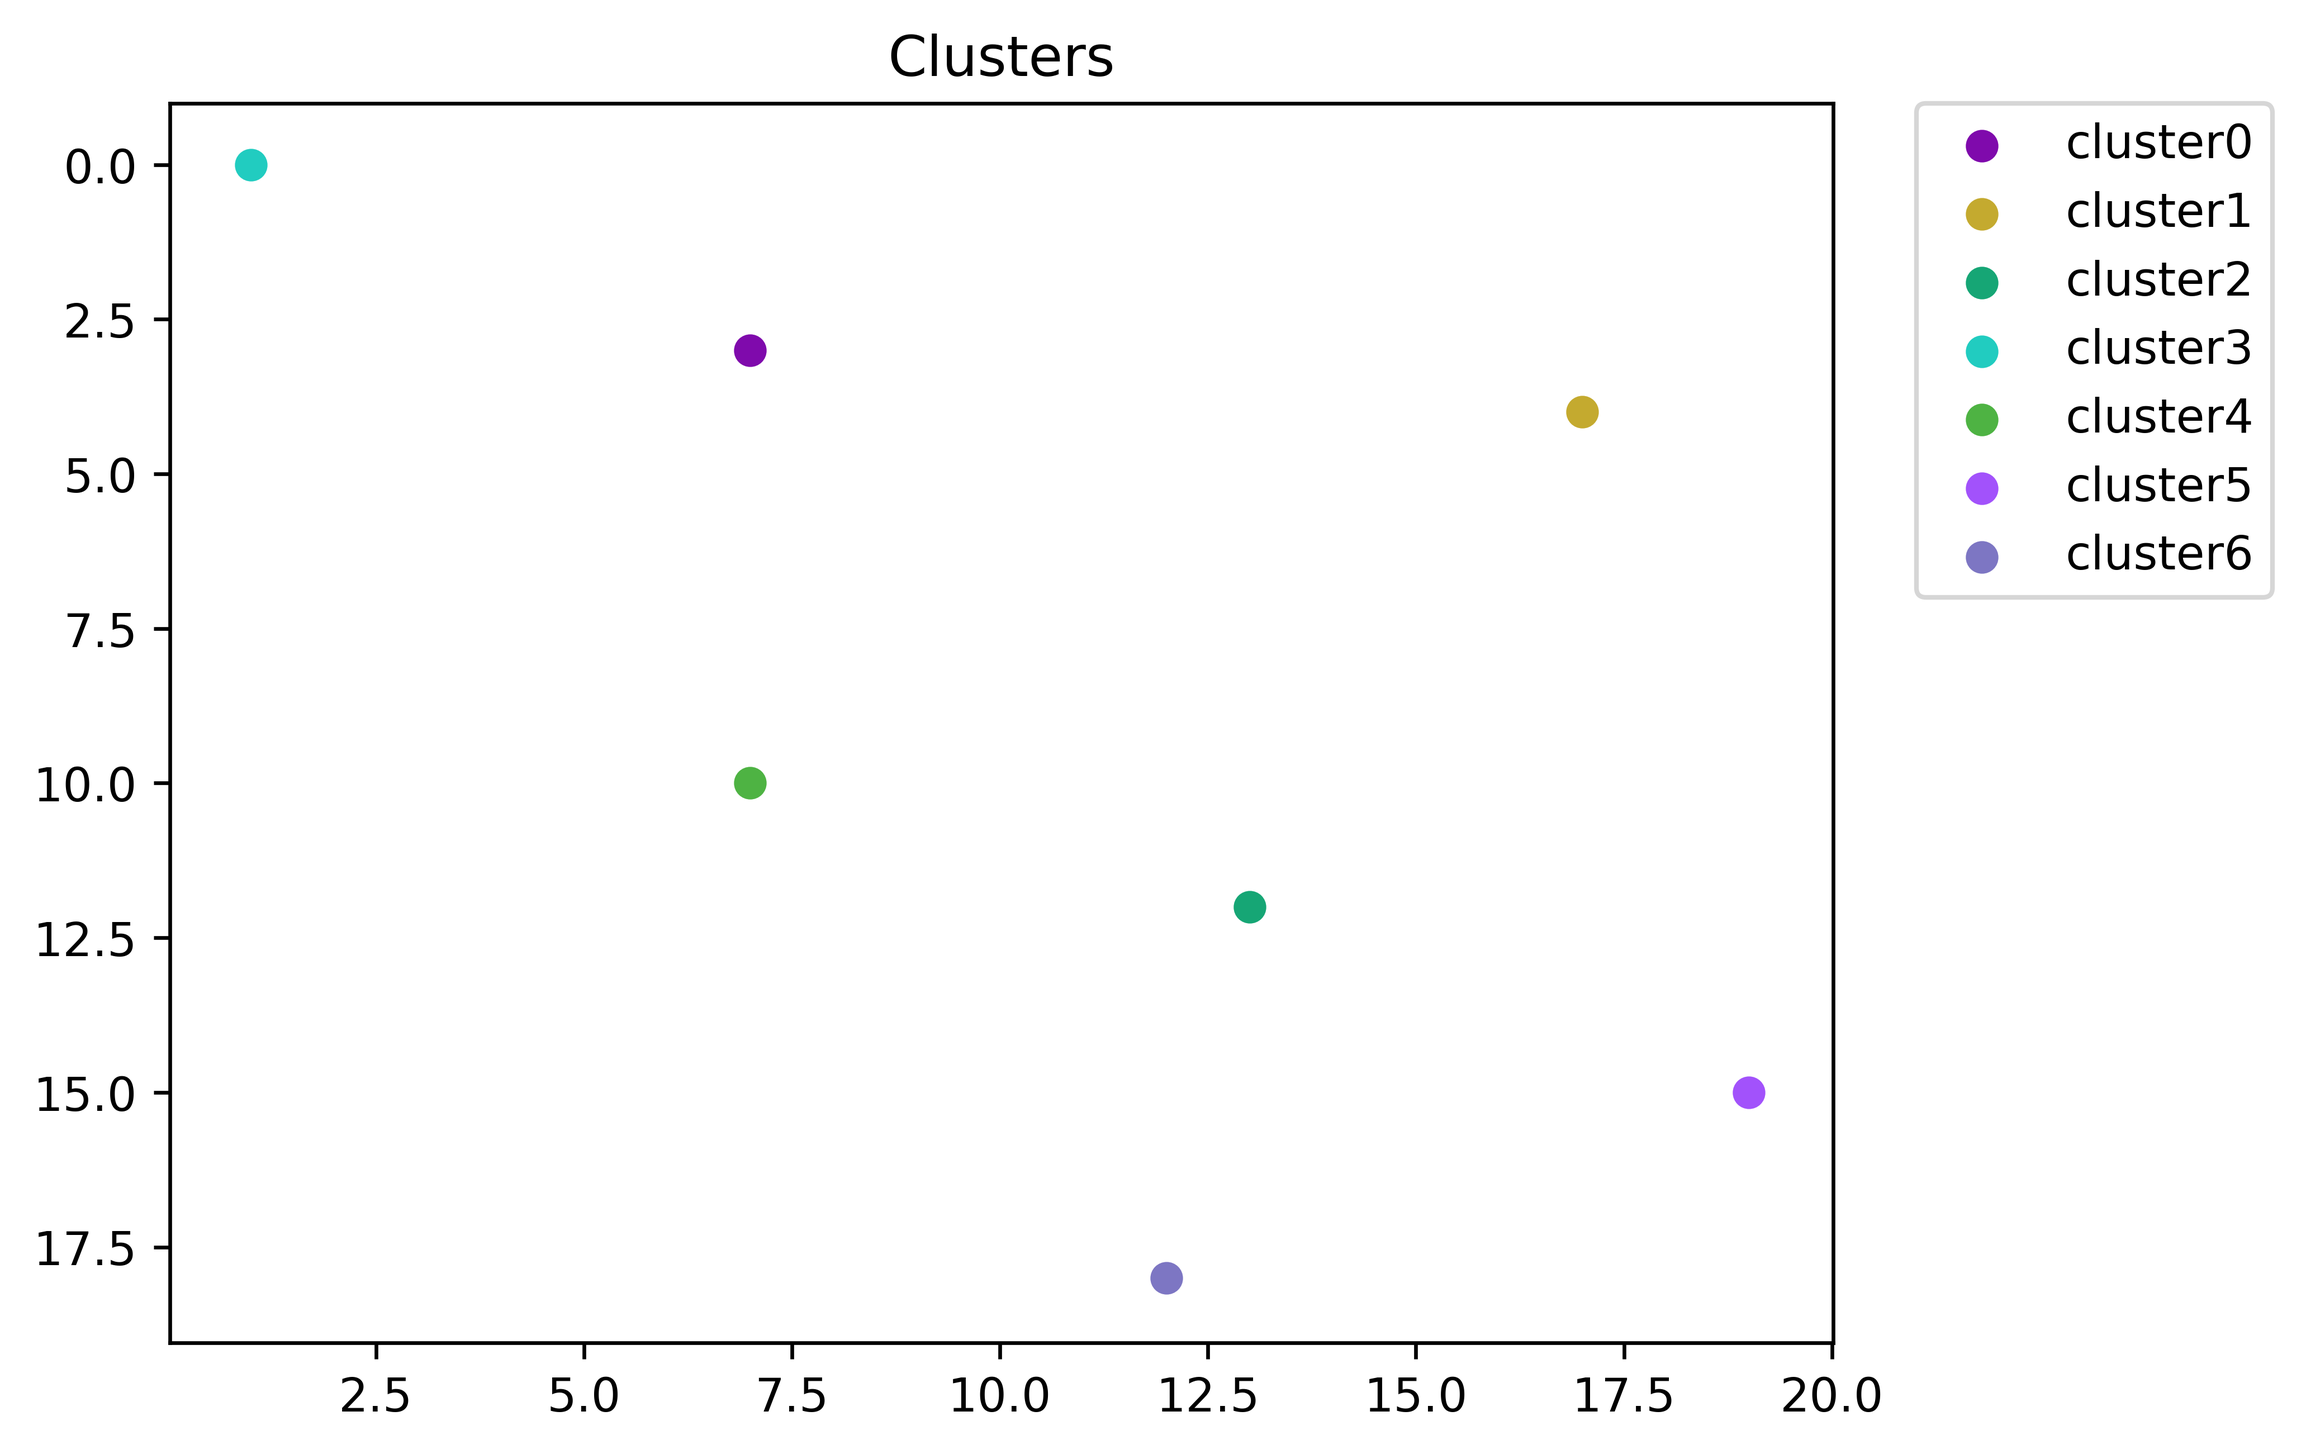
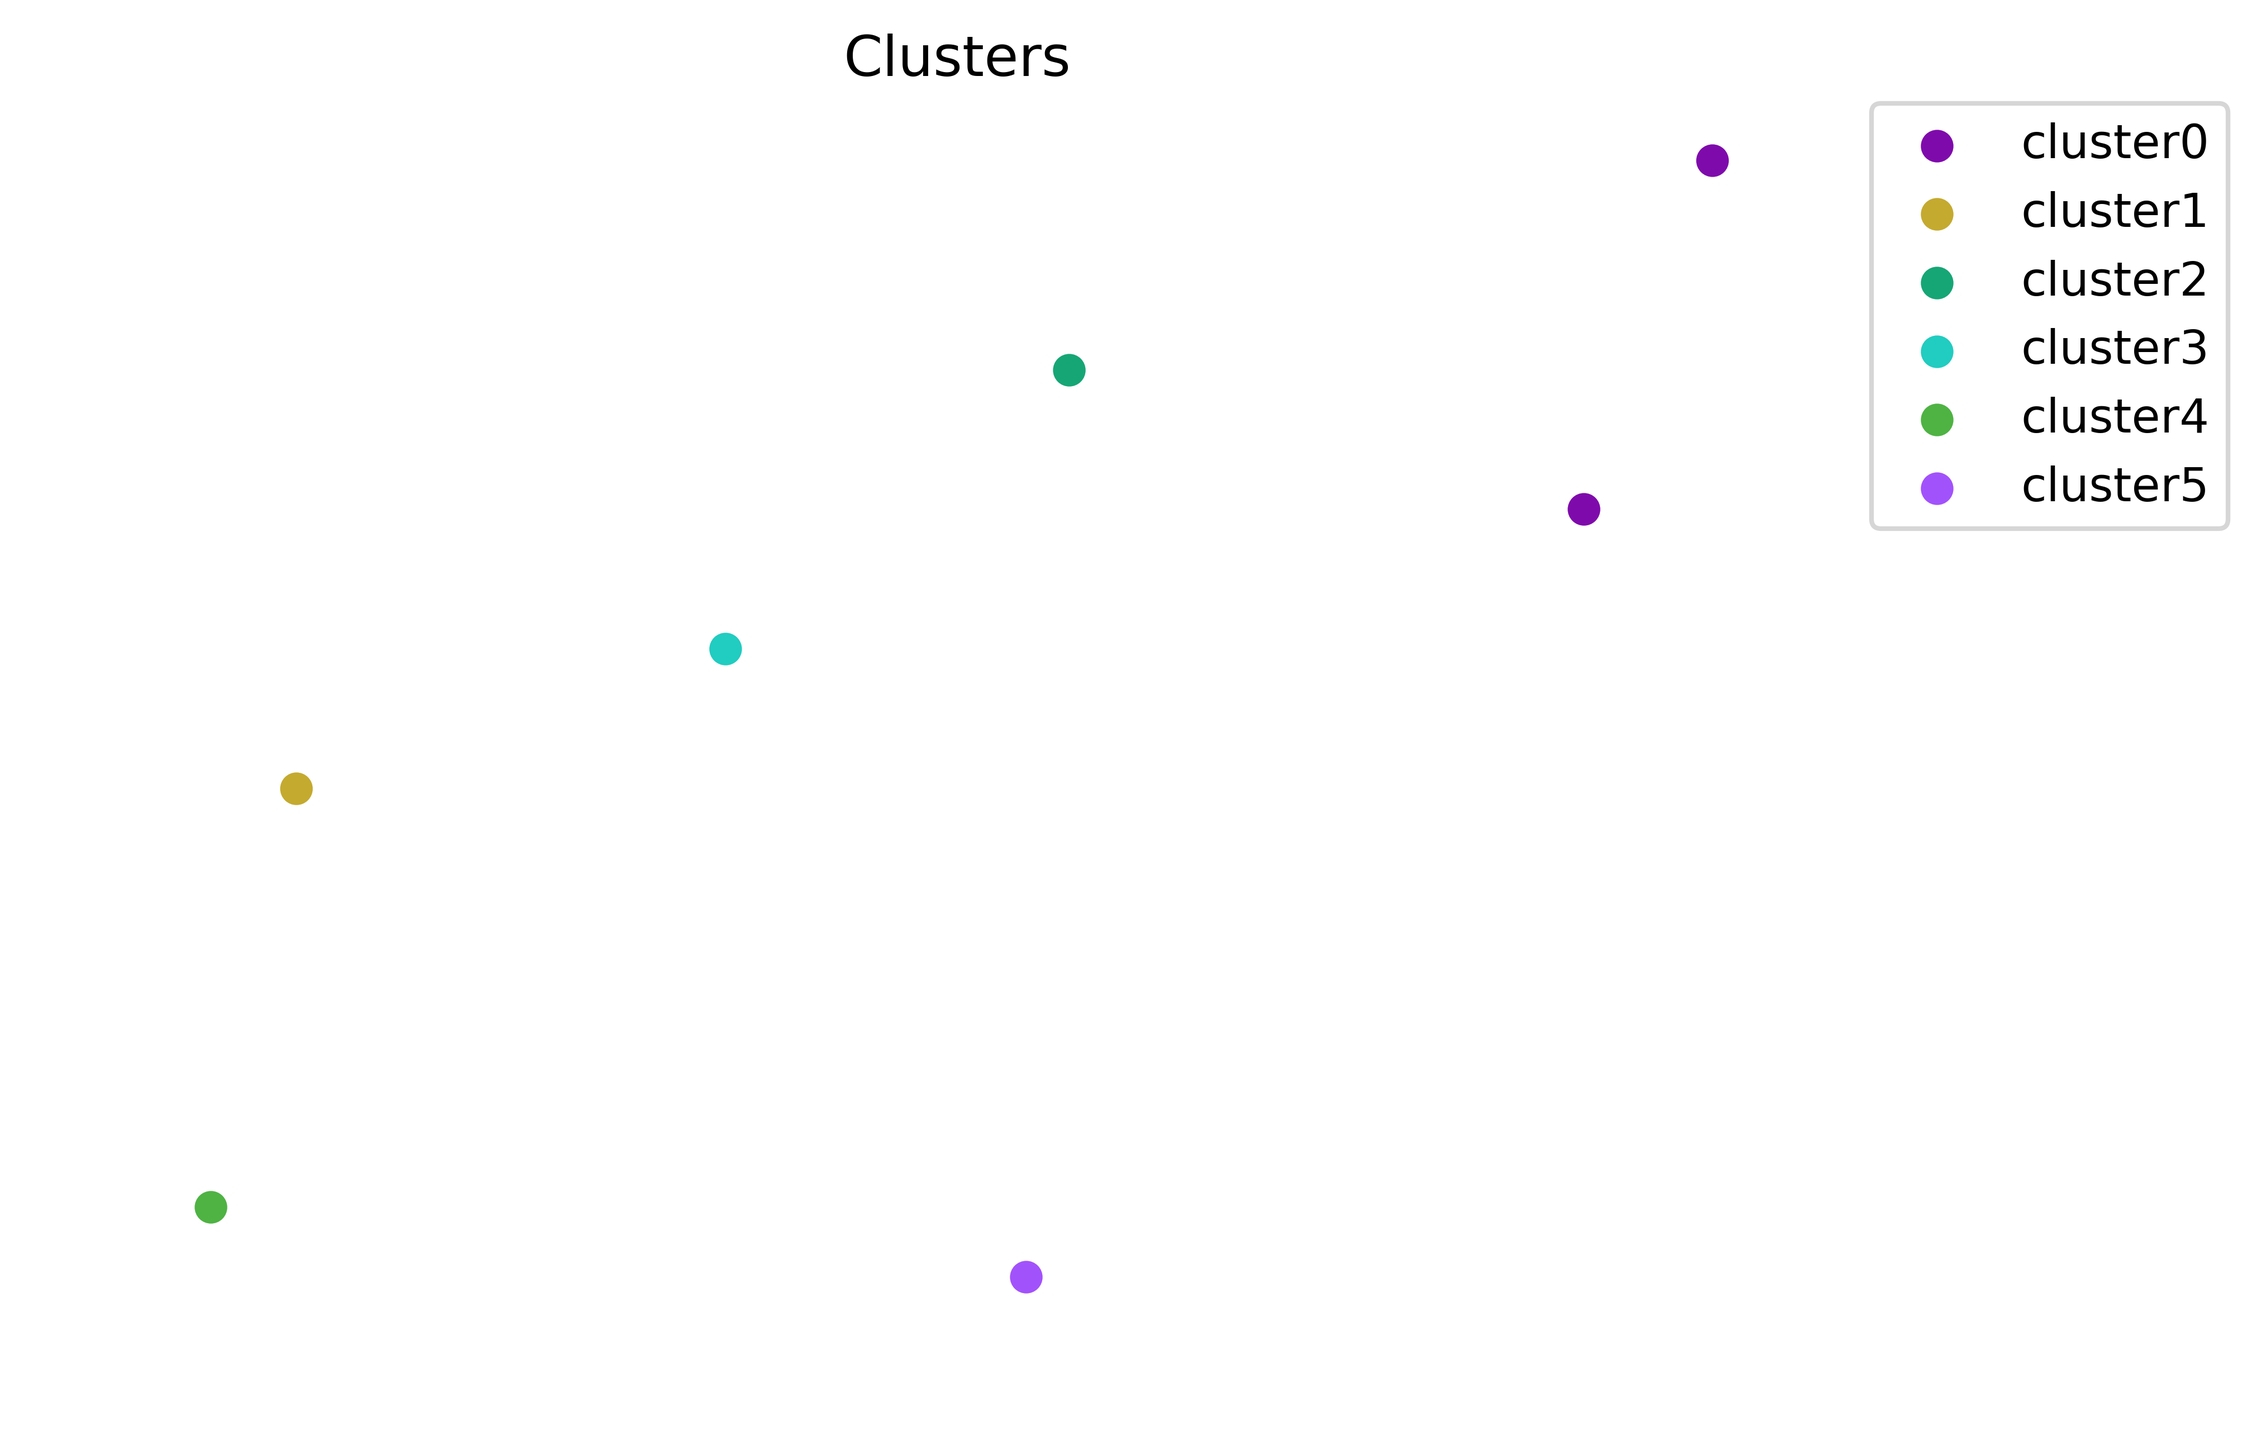
Updated qtresh clustering

diff --git a/SimpSOM/__init__.py b/SimpSOM/__init__.py
@@ -12,8 +12,9 @@ import matplotlib.pyplot as plt
 from matplotlib import cm
 from mpl_toolkits.axes_grid1 import make_axes_locatable
 
-import densityPeak as dp
 import hexagons as hx
+import densityPeak as dp
+import qualityThreshold as qt
 
 from sklearn.decomposition import PCA
 from sklearn import cluster
@@ -221,7 +222,7 @@ class somNet:
 
 		centers = [[node.pos[0],node.pos[1]] for node in self.nodeList]
 
-		widthP=250
+		widthP=100
 		dpi=72
 		xInch = self.netWidth*widthP/dpi 
 		yInch = self.netHeight*widthP/dpi 
@@ -237,15 +238,14 @@ class somNet:
 		 	cols = [node.weights[colnum] for node in self.nodeList]
 			ax = hx.plot_hex(fig, centers, cols)
 			ax.set_title('Node Grid w Feature #' +  str(colnum), size=150)
-			#deactivate the divider for now, as it gives problems with points projections
-			#from mpl_toolkits.axes_grid1 import make_axes_locatable
-			#divider = make_axes_locatable(ax)
-			#cax = divider.append_axes("right", size="5%", pad=0.0)
-			cbar=plt.colorbar(ax.collections[0],ax=ax)
+			divider = make_axes_locatable(ax)
+			cax = divider.append_axes("right", size="5%", pad=0.0)
+			cbar=plt.colorbar(ax.collections[0], cax=cax)
 			cbar.set_label('Feature #' +  str(colnum)+' value', size=150, labelpad=50)
 			cbar.ax.tick_params(labelsize=100)
+			plt.sca(ax)
 			printName='nodesFeature_'+str(colnum)+'.png'
-		
+			
 		if printout==True:
 			plt.savefig(printName, bbox_inches='tight', dpi=dpi)
 		if show==True:
@@ -289,22 +289,25 @@ class somNet:
 
 		ax = hx.plot_hex(fig, centers, diffs)
 		ax.set_title('Nodes Grid w Weights Difference', size=150)
+		
 		divider = make_axes_locatable(ax)
 		cax = divider.append_axes("right", size="5%", pad=0.0)
-		cbar=plt.colorbar(ax.collections[0],cax=cax)
+		cbar=plt.colorbar(ax.collections[0], cax=cax)
 		cbar.set_label('Weights Difference', size=150, labelpad=50)
 		cbar.ax.tick_params(labelsize=100)
+		plt.sca(ax)
+
 		printName='nodesDifference.png'
-
-
+		
 		if printout==True:
 			plt.savefig(printName, bbox_inches='tight', dpi=dpi)
 		if show==True:
 			plt.show()
-		plt.clf()
+		if show!=False and printout!=False:
+			plt.clf()
 
 
-	def project(self, array, colnum=0, labels=[], show=False, printout=True):
+	def project(self, array, colnum=-1, labels=[], show=False, printout=True):
 
 		"""Project the datapoints of a given array to the 2D space of the 
 			SOM by calculating the bmus. If requested plot a 2D map with as 
@@ -313,7 +316,8 @@ class somNet:
 
 		Args:
 			array (np.array): An array containing datapoints to be mapped.
-			colnum (int): The index of the weight that will be shown as colormap.
+			colnum (int): The index of the weight that will be shown as colormap. 
+				If not chosen, the difference map will be used instead.
 			show (bool, optional): Choose to display the plot.
 			printout (bool, optional): Choose to save the plot to a file.
 			
@@ -328,27 +332,37 @@ class somNet:
 			if self.colorEx==True:
 				cls.append(array[i,:])
 			else: 
-				cls.append(array[i,colnum])
+				if colnum==-1:
+					cls.append('#ffffff')
+				else:	
+					cls.append(array[i,colnum])
 
 		if show==True or printout==True:
 		
-			""" Call nodes_graph to first build the 2D map of the nodes. """
+			""" Call nodes_graph/diff_graph to first build the 2D map of the nodes. """
 		
-			self.nodes_graph(colnum, False, False)
-
-			#a random perturbation is added to the points positions so that data 
-			#belonging plotted to the same bmu will be visible in the plot		
 			if self.colorEx==True:
 				printName='colorProjection.png'
+				self.nodes_graph(colnum, False, False)
 				plt.scatter([pos[0] for pos in bmuList],[pos[1] for pos in bmuList], color=cls,  
-						s=2500, edgecolor='black', linewidth=10, zorder=10)
+						s=2500, edgecolor='#ffffff', linewidth=10, zorder=10)
 				plt.title('Datapoints Projection', size=150)
 			else:
-				printName='projection_'+str(colnum)+'.png'
-				plt.scatter([pos[0] for pos in bmuList],[pos[1] for pos in bmuList], c=cls, cmap=cm.viridis,
-						s=2500, edgecolor='black', linewidth=10, zorder=10)
-				plt.title('Datapoints Projection #' +  str(colnum), size=150)
-
+				#a random perturbation is added to the points positions so that data 
+				#belonging plotted to the same bmu will be visible in the plot		
+				if colnum==-1:
+					printName='projection_difference.png'
+					self.diff_graph(False, False)
+					plt.scatter([pos[0]-0.125+np.random.rand()*0.25 for pos in bmuList],[pos[1]-0.125+np.random.rand()*0.25 for pos in bmuList], c=cls, cmap=cm.viridis,
+							s=2500, linewidth=0, zorder=10)
+					plt.title('Datapoints Projection on Nodes Difference', size=150)
+				else:	
+					printName='projection_feature'+str(colnum)+'.png'
+					self.nodes_graph(colnum, False, False)
+					plt.scatter([pos[0]-0.125+np.random.rand()*0.25 for pos in bmuList],[pos[1]-0.125+np.random.rand()*0.25 for pos in bmuList], c=cls, cmap=cm.viridis,
+							s=2000, edgecolor='#ffffff', linewidth=8, zorder=10)
+					plt.title('Datapoints Projection #' +  str(colnum), size=150)
+				
 			if labels!=[]:
 				for label, x, y in zip(labels, [pos[0] for pos in bmuList],[pos[1] for pos in bmuList]):
 					plt.annotate(label, xy=(x,y), xytext=(-0.25, 0.25), textcoords='offset points', ha='right', va='bottom', size=100) 
@@ -397,60 +411,7 @@ class somNet:
 			
 			""" Cluster according to the quality threshold algorithm (slow!). """
 	
-			tmpList=range(len(bmuList))
-			while len(tmpList)!=0:
-				qtList=[]
-				#the cluster list for each point contains the point itself
-				#so that it gets automatically
-				#deleted at the next loop without having to worry about it
-				for i in tmpList:
-					qtList.append([])
-					for j in tmpList:
-						if self.PBC==True:
-
-							""" Hexagonal Periodic Boundary Conditions """
-						
-							if self.netHeight%2==0:
-								offset=0
-							else: 
-								offset=0.5
-						 
-						 	distBmu=np.min([np.sqrt((bmuList[j][0]-bmuList[i][0])*(bmuList[j][0]-bmuList[i][0])\
-								+(bmuList[j][1]-bmuList[i][1])*(bmuList[j][1]-bmuList[i][1])),
-							#right
-							np.sqrt((bmuList[j][0]-bmuList[i][0]+self.netWidth)*(bmuList[j][0]-bmuList[i][0]+self.netWidth)\
-								+(bmuList[j][1]-bmuList[i][1])*(bmuList[j][1]-bmuList[i][1])),
-							#bottom 
-							np.sqrt((bmuList[j][0]-bmuList[i][0]+offset)*(bmuList[j][0]-bmuList[i][0]+offset)\
-								+(bmuList[j][1]-bmuList[i][1]+self.netHeight*2/np.sqrt(3)*3/4)*(bmuList[j][1]-bmuList[i][1]+self.netHeight*2/np.sqrt(3)*3/4)),
-							#left
-							np.sqrt((bmuList[j][0]-bmuList[i][0]-self.netWidth)*(bmuList[j][0]-bmuList[i][0]-self.netWidth)\
-								+(bmuList[j][1]-bmuList[i][1])*(bmuList[j][1]-bmuList[i][1])),
-							#top 
-							np.sqrt((bmuList[j][0]-bmuList[i][0]-offset)*(bmuList[j][0]-bmuList[i][0]-offset)\
-								+(bmuList[j][1]-bmuList[i][1]-self.netHeight*2/np.sqrt(3)*3/4)*(bmuList[j][1]-bmuList[i][1]-self.netHeight*2/np.sqrt(3)*3/4)),
-							#bottom right
-							np.sqrt((bmuList[j][0]-bmuList[i][0]+self.netWidth+offset)*(bmuList[j][0]-bmuList[i][0]+self.netWidth+offset)\
-								+(bmuList[j][1]-bmuList[i][1]+self.netHeight*2/np.sqrt(3)*3/4)*(bmuList[j][1]-bmuList[i][1]+self.netHeight*2/np.sqrt(3)*3/4)),
-							#bottom left
-							np.sqrt((bmuList[j][0]-bmuList[i][0]-self.netWidth+offset)*(bmuList[j][0]-bmuList[i][0]-self.netWidth+offset)\
-								+(bmuList[j][1]-bmuList[i][1]+self.netHeight*2/np.sqrt(3)*3/4)*(bmuList[j][1]-bmuList[i][1]+self.netHeight*2/np.sqrt(3)*3/4)),
-							#top right
-							np.sqrt((bmuList[j][0]-bmuList[i][0]+self.netWidth-offset)*(bmuList[j][0]-bmuList[i][0]+self.netWidth-offset)\
-								+(bmuList[j][1]-bmuList[i][1]-self.netHeight*2/np.sqrt(3)*3/4)*(bmuList[j][1]-bmuList[i][1]-self.netHeight*2/np.sqrt(3)*3/4)),
-							#top left
-							np.sqrt((bmuList[j][0]-bmuList[i][0]-self.netWidth-offset)*(bmuList[j][0]-bmuList[i][0]-self.netWidth-offset)\
-								+(bmuList[j][1]-bmuList[i][1]-self.netHeight*2/np.sqrt(3)*3/4)*(bmuList[j][1]-bmuList[i][1]-self.netHeight*2/np.sqrt(3)*3/4))])
-						
-						else:
-							distBmu=np.sqrt((bmuList[j][0]-bmuList[i][0])*(bmuList[j][0]-bmuList[i][0])\
-							+(bmuList[j][1]-bmuList[i][1])*(bmuList[j][1]-bmuList[i][1]))
-
-						if distBmu <= cutoff:
-							qtList[-1].append(j)
-				clusters.append(max(qtList,key=len))
-				for el in clusters[-1]:
-					tmpList.remove(el)
+			clusters = qt.qualityThreshold(bmuList, cutoff, self.PBC, self.netHeight, self.netWidth)
 
 		elif type=='dpeak':
 
@@ -517,13 +478,14 @@ class somNet:
 				xc,yc=[],[]
 				for c in clusters[i]:
 					#again, invert y and x to be consistent with the previous maps
-					xc.append(bmuList[int(c)][1])
-					yc.append(bmuList[int(c)][0])	
+					xc.append(bmuList[int(c)][0])
+					yc.append(self.netHeight-bmuList[int(c)][1])	
 				ax.scatter(xc, yc, color=randCl, label='cluster'+str(i))
 
 			plt.gca().invert_yaxis()
 			plt.legend(bbox_to_anchor=(1.05, 1), loc=2, borderaxespad=0.)			
 			ax.set_title('Clusters')
+			ax.axis('off')
 
 			if printout==True:
 				plt.savefig(printName, bbox_inches='tight', dpi=600)
@@ -675,8 +637,6 @@ def run_colorsExample():
 		Different example graphs are then printed from the trained network.		
 	"""	
 
-	#np.random.seed(0)
-	#raw_data = np.random.random((20, 3))
 	raw_data =np.asarray([[1, 0, 0],[0,1,0],[0,0,1],[1,1,0],[1,0,1],[0,1,1],[0.2,0.2,0.5]])
 	labels=['red','green','blue','yellow','magenta','cyan','indigo']
 
@@ -686,9 +646,10 @@ def run_colorsExample():
 			print(labels[i] + ", "), 
 	print("and " + labels[-1]+ ".\n")
 	
-	net = somNet(20, 20, raw_data, loadFile='colorExample_weights', PBC=True) 
+	net = somNet(20, 20, raw_data, PBC=True) 
+	
 	net.colorEx=True
-	#net.train(0.01, 10000)
+	net.train(0.01, 10000)
 
 	print("Saving weights and a few graphs..."),
 	net.save('colorExample_weights')
@@ -696,7 +657,7 @@ def run_colorsExample():
 	
 	net.diff_graph()
 	net.project(raw_data, labels=labels)
-	#net.cluster(raw_data, type='qthresh')
+	net.cluster(raw_data, type='qthresh')
 	
 	print("done!")
 

diff --git a/SimpSOM/qualityThreshold.py b/SimpSOM/qualityThreshold.py
@@ -1,0 +1,119 @@
+"""
+Quality Threshold Clustering
+
+L. J. Heyer, S. Kruglyak and S. Yooseph, 
+Exploring Expression Data: Identification and Analysis of Coex-pressed Genes 
+Genome Research, Vol. 9, No. 11, 1999, pp. 1106-1115. 
+
+F. Comitani @2017 
+"""
+
+import numpy as np
+
+def qualityThreshold(sample, cutoff=5, PBC=False, netHeight=0, netWidth=0):
+
+	""" Run the complete clustering algorithm in one go and returns the clustered indeces as a list.
+
+		Args:
+			sample (array): The input dataset
+			cutoff (float, optional): The clustering cutoff distance.
+			PBC (bool, optional): Activate/deactivate Periodic Boundary Conditions.
+			
+
+		Returns:
+			clusters (list, int): a list of lists containing the points indices belonging to each cluster
+	"""		
+
+	tmpList=range(len(sample))
+	clusters=[]
+
+	while len(tmpList)!=0:
+		
+		qtList=[]	
+		for i in tmpList:
+			qtList.append([])
+			for j in tmpList:
+		
+				if PBC==True:
+					""" Hexagonal Periodic Boundary Conditions """
+				
+					if netHeight%2==0:
+						offset=0
+					else: 
+						offset=0.5
+				 
+				 	distBmu=np.min([np.sqrt((sample[j][0]-sample[i][0])*(sample[j][0]-sample[i][0])\
+						+(sample[j][1]-sample[i][1])*(sample[j][1]-sample[i][1])),
+					#right
+					np.sqrt((sample[j][0]-sample[i][0]+netWidth)*(sample[j][0]-sample[i][0]+netWidth)\
+						+(sample[j][1]-sample[i][1])*(sample[j][1]-sample[i][1])),
+					#bottom 
+					np.sqrt((sample[j][0]-sample[i][0]+offset)*(sample[j][0]-sample[i][0]+offset)\
+						+(sample[j][1]-sample[i][1]+netHeight*2/np.sqrt(3)*3/4)*(sample[j][1]-sample[i][1]+netHeight*2/np.sqrt(3)*3/4)),
+					#left
+					np.sqrt((sample[j][0]-sample[i][0]-netWidth)*(sample[j][0]-sample[i][0]-netWidth)\
+						+(sample[j][1]-sample[i][1])*(sample[j][1]-sample[i][1])),
+					#top 
+					np.sqrt((sample[j][0]-sample[i][0]-offset)*(sample[j][0]-sample[i][0]-offset)\
+						+(sample[j][1]-sample[i][1]-netHeight*2/np.sqrt(3)*3/4)*(sample[j][1]-sample[i][1]-netHeight*2/np.sqrt(3)*3/4)),
+					#bottom right
+					np.sqrt((sample[j][0]-sample[i][0]+netWidth+offset)*(sample[j][0]-sample[i][0]+netWidth+offset)\
+						+(sample[j][1]-sample[i][1]+netHeight*2/np.sqrt(3)*3/4)*(sample[j][1]-sample[i][1]+netHeight*2/np.sqrt(3)*3/4)),
+					#bottom left
+					np.sqrt((sample[j][0]-sample[i][0]-netWidth+offset)*(sample[j][0]-sample[i][0]-netWidth+offset)\
+						+(sample[j][1]-sample[i][1]+netHeight*2/np.sqrt(3)*3/4)*(sample[j][1]-sample[i][1]+netHeight*2/np.sqrt(3)*3/4)),
+					#top right
+					np.sqrt((sample[j][0]-sample[i][0]+netWidth-offset)*(sample[j][0]-sample[i][0]+netWidth-offset)\
+						+(sample[j][1]-sample[i][1]-netHeight*2/np.sqrt(3)*3/4)*(sample[j][1]-sample[i][1]-netHeight*2/np.sqrt(3)*3/4)),
+					#top left
+					np.sqrt((sample[j][0]-sample[i][0]-netWidth-offset)*(sample[j][0]-sample[i][0]-netWidth-offset)\
+						+(sample[j][1]-sample[i][1]-netHeight*2/np.sqrt(3)*3/4)*(sample[j][1]-sample[i][1]-netHeight*2/np.sqrt(3)*3/4))])
+				
+				else:
+					distBmu=np.sqrt((sample[j][0]-sample[i][0])*(sample[j][0]-sample[i][0])\
+					+(sample[j][1]-sample[i][1])*(sample[j][1]-sample[i][1]))
+
+				if distBmu <= cutoff:
+					qtList[-1].append(j)
+
+		clusters.append(max(qtList,key=len))
+		for el in clusters[-1]:
+			tmpList.remove(el)
+
+	return clusters
+
+
+def test():
+
+	import matplotlib.pyplot as plt
+	import matplotlib as mpl
+
+
+	""" Run the complete clustering algorithm on a test case and print the clustered points graph. """
+
+	print("Testing...")
+  	
+  	np.random.seed(100)
+	samples1 = np.random.multivariate_normal([0, 0], [[1, 0.1],[0.1, 1]], 100)
+	samples2 = np.random.multivariate_normal([10, 10], [[2, 0.5],[0.5, 2]], 100)
+	samples3 = np.random.multivariate_normal([0, 10], [[2, 0.5],[0.5, 2]], 100)
+	samples4 = np.random.uniform(0, 14, [50,2])
+	samplesTmp = np.concatenate((samples1,samples2), axis=0)
+	samplesTmp2 = np.concatenate((samplesTmp,samples3), axis=0)
+	samples = np.concatenate((samplesTmp2,samples4), axis=0)
+#	plt.plot(samples[:, 0], samples[:, 1], '.')
+#	plt.show()
+
+  	clusters = qualityThreshold(samples, cutoff=5)
+
+  	for c in clusters:
+  		plt.plot([samples[i][0] for i in c], [samples[i][1] for i in c], 'o', c="#%06x" % np.random.randint(0, 0xFFFFFF))
+
+	plt.show()
+	
+   	print("Done!")
+
+
+if __name__ == "__main__":
+
+	test()

diff --git a/SimpSOM/hexagons.py b/SimpSOM/hexagons.py
@@ -64,7 +64,7 @@ def plot_hex(fig, centers, weights):
 
 	else:
 			
-		cmap = plt.get_cmap('RdYlBu')
+		cmap = plt.get_cmap('viridis')
 		for x,y,w in zip(xpoints,ypoints,weights):
 			hexagon = RegularPolygon((x,y), numVertices=6, radius=.95/np.sqrt(3) , 
 								 orientation=np.radians(0), 
